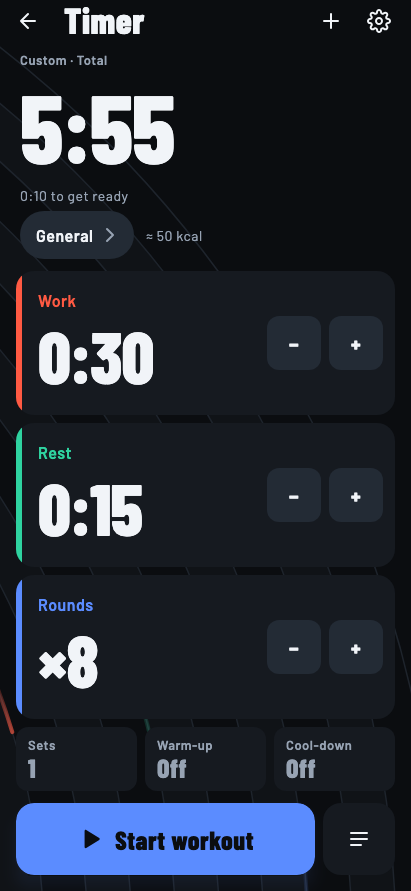
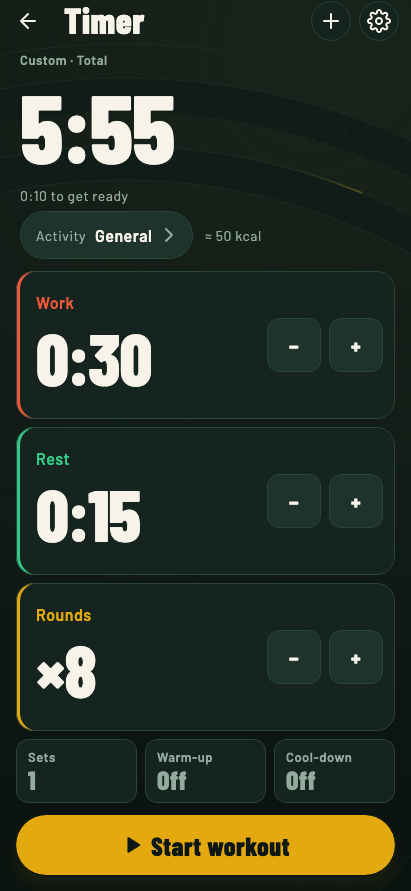
Docs: refresh Track & Chalk screenshots, 3D storefront renders, README and Pages site
- Re-capture all 16 dark-theme Track & Chalk screenshots in docs/screenshots/
  from the live Compose UI (phone 411x891 and tablet 1280x800).
- Re-render all 6 transparent Blender storefront device mockups in
  docs/assets/store/ (1290x2796 portrait & 1920x1080 landscape) from the
  updated screenshots.
- Update README.md, docs/index.md, docs/assets/extra.css, docs/developers/index.md,
  and docs/guide/ pages with the 3D storefront showcase, Track & Chalk visuals,
  chronograph rings, interval waveforms, muscle body maps, barbell plate loader,
  kettlebell rack, 12-week heatmap, Polar Verity Sense & H10 live heart-rate
  cards, and corrected module count (35) and Toolchain link (0.14).
- Verified with check_module_rules.py and mkdocs build --strict.

diff --git a/docs/assets/extra.css b/docs/assets/extra.css
@@ -18,6 +18,32 @@
   --md-typeset-a-color: #e5a910;
 }
 
+/* Two-up transparent 3D device showcase renders on the home page. */
+.showcase {
+  display: grid;
+  grid-template-columns: repeat(auto-fit, minmax(17rem, 1fr));
+  gap: 1.5rem;
+  align-items: end;
+  margin: 1.5rem 0 2rem;
+}
+
+.showcase figure {
+  margin: 0;
+  text-align: center;
+}
+
+.showcase img {
+  width: 100%;
+  height: auto;
+  filter: drop-shadow(0 14px 28px rgb(0 0 0 / 28%));
+}
+
+.showcase figcaption {
+  font-size: 0.75rem;
+  color: var(--md-default-fg-color--light);
+  margin-top: 0.5rem;
+}
+
 /* A row of phone screenshots that wraps on a narrow window. */
 .shots {
   display: flex;

diff --git a/README.md b/README.md
@@ -32,6 +32,11 @@ Built with **Compose Multiplatform** for **Android**, **iOS**, and **Desktop (JV
 
 ## 📱 App Showcase
 
+<p align="center">
+  <img src="docs/assets/store/dual_today_workout_landscape.png" width="48%" alt="Interval Today and live workout timer in chamfered device frames" />
+  <img src="docs/assets/store/companion_tablet_phone_landscape.png" width="48%" alt="Interval tablet Today view paired with phone Exercise library" />
+</p>
+
 ### 🧭 Today & Set up
 
 | Today | Set up | Log: this week | Log: the month |
@@ -63,7 +68,8 @@ Built with **Compose Multiplatform** for **Android**, **iOS**, and **Desktop (JV
 ## ✨ Features
 
 ### 🧭 Guided Setup, `Today` · `Train` · `Log`
-- **Welcome**: A fresh install opens, once, on what the app is and a page each for Today, Train and Log, every one skippable, on the way to Set up. Today then carries a **First week** card — build the week, do the first workout, follow a flow, log a day of your sport — ticked as each is done, until you hide it.
+- **Track & Chalk Design**: Deep pine dark mode, warm chalk light mode, varsity gold accents, GPU shader-rendered chronograph countdown rings, zone-banded heart-rate charts, interval waveforms on preset and flow cards, and a rendered 3D kettlebell app icon.
+- **Welcome**: A fresh install opens, once, on what the app is and an illustrated page each for Today, Train and Log, every one skippable, on the way to Set up. Today then carries a **First week** card — build the week, do the first workout, follow a flow, log a day of your sport — ticked as each is done, until you hide it.
 - **First-Run Week Setup (`Set up`)**: Where the welcome ends on a fresh install (and anytime from Today or Settings). Answer four questions — what else you train (BJJ, climbing, running, a custom sport, or just the bell), on which days, which kettlebells you own (and which you have two of), and your session length — to pick a program your bells and time are enough for, spread its days evenly around your sport with a rest day, save your equipment, and set your weekly goal. With a pair of bells and BJJ it builds a grappler's week: *20 minutes beside BJJ*, plus 15:15 MVO2 on a free day when the mat takes two days or fewer.
 - **`Today` Home Tab**: Opens directly to this week's progress against your goal, a coach's line on what kind of day it is, then **the day in order** on one card (today's planned workout, pre-class mobility flow, the class to log, or your followed program's next day with estimated duration): what is done ticked off, the step to do now under one Start button, strength on a class day behind **"If there is time"**, **"Done for today"** once nothing is left, a **rest day** when nothing was asked, an **easier day** offered after a very hard session or a heavy week on the grip, and **"Or pick by time"** behind "Something else" (the program's next day when it fits, then presets and mobility flows that fit 5, 10, 15, 20, or 30 minutes). Every pick opens a look at what it is before Start, with "Plan for later" beside it.
 - **Three-Pillar `Train` Tab**: One tab organized into three pillars — **Strength** (programs, muscle balance, exercises, equipment), **Conditioning** (interval presets, with the precision Timer a page over them), and **Mobility** (guided follow-along flows) — remembering the pillar you last trained on.
@@ -74,11 +80,11 @@ Built with **Compose Multiplatform** for **Android**, **iOS**, and **Desktop (JV
   - **Climbing & Falling Ladders**: Step work up or down each round (`+10s` or `-5s` a round), resetting each set.
   - **Multi-Block Sequences**: Chain multiple blocks back-to-back — each with its own work, rest, rounds, sets, and ladder, plus rest between blocks — built in the visual block editor or straight from the Timer.
   - **Time Caps**: As many rounds as you can in so many minutes, on the Timer or as any block of a sequence. Tap **Round done** as each round ends to see the rounds roll up, the pace of the round under way beside the average, and the best of the same workout; the summary and the Log keep every round's time.
-- **Warm-Up & Cool-Down**: Optional warm-up before rounds and cool-down stretch after, configured on the Timer, in presets, or in plain text.
-- **Built-in & Custom Presets**: built-in protocols (*Tabata*, *HIIT 30/30*, *Hangboard*, *Long efforts*, *Swings on the minute*, *Mat rounds*, Kenneth Jay's *15:15 MVO2* kettlebell snatch protocol, and a *20-minute cap*) alongside your own single-block presets and sequences, listed shortest first. A kettlebell preset can call every work after the first "Switch hands. Work" (15:15 MVO2 does), and asks on its summary about how many snatches a set, which Lift counts with its own sets.
-- **Audio & Haptic Cues**: High-contrast audible beeps, spoken cues via system text-to-speech (including set numbers, block transitions, and rest between sets/blocks), halfway warnings, and vibration pulses.
+- **Warm-Up & Cool-Down**: Optional warm-up before rounds and cool-down stretch after, configured on the Timer or in presets.
+- **Built-in & Custom Presets**: built-in protocols (*Tabata*, *HIIT 30/30*, *Hangboard*, *Long efforts*, *Swings on the minute*, *Mat rounds*, Kenneth Jay's *15:15 MVO2* kettlebell snatch protocol, and a *20-minute cap*) alongside your own single-block presets and sequences, each previewed with an interval waveform and grouped by where it fits. A kettlebell preset can call every work after the first "Switch hands. Work" (15:15 MVO2 does), and asks on its summary about how many snatches a set, which Lift counts with its own sets.
+- **Audio & Haptic Cues**: High-contrast audible beeps, spoken cues via system text-to-speech (including set numbers, block transitions, and rest between sets/blocks), halfway warnings, and vibration pulses, with `< Back`, `Pause`, `Skip >`, and `+10s` controls during workouts.
 - **Live Updates, Live Activities & Background Persistence**: On Android 16, running workouts and Lift's timers show as status-bar chips with real-time countdowns and per-round, per-set, or per-block progress on the lock screen, from a foreground service with Pause/End controls. On iOS they are Live Activities on the Lock Screen and in the Dynamic Island, with Pause/Resume and End, and local notifications scheduled ahead per phase change.
-- **Live Heart Rate (Android)**: With a Polar sensor paired, a workout shows the heart rate as a scale of the five zones under the ring, lighting the zone you are in and calling each change with a tone.
+- **Live Heart Rate (Android)**: Pair a **Polar Verity Sense** or **Polar H10** (choosing which when both are in reach) to see a live pulse badge beside the gear on every tab, a heart-rate card under the workout ring (tap to toggle between the five zone bars and a zone-banded live heart-rate trace), Lift session heart-rate cards and rest-band recovery guidance (*high*, *easing*, *ready*), post-workout 60-second recovery and heart load, and resting heart-rate (Karvonen) zone calibration.
 - **Shortcuts & Home-Screen Widget**: Long-press app shortcuts on **Android and iOS** to quickly "Start a workout" or "Start a Lift session" without interrupting an active workout, plus an **Android Glance home-screen widget** showing your weekly goal ring, streak, and one-tap start actions (with Android 15+ widget picker previews).
 
 ### 🏋 Strength & Kettlebell Training (`Lift`)
@@ -86,8 +92,8 @@ Built with **Compose Multiplatform** for **Android**, **iOS**, and **Desktop (JV
 - **Session Duration Estimates**: Displays estimated workout times (`"about 20 min"`, `"about 12–15 min"`) across Today, program cards, and day sheets — calculated from sets, reps, movement pace, EMOM minutes, and your configured rest between sets.
 - **Make It Yours**: Clone any built-in program into a customizable copy (`(yours)`) to modify rep ranges, timed holds, resistance bands, double bells, and schedules while keeping your current day and progression.
 - **Rep Progression & Balance Preview**: Programs build volume within a rep range, then denser, then a harder lift at the same bell, before stepping up to the next bell or band; "Very hard" or "All out" exertion ratings hold step-ups back until approved. Program sheets preview weekly muscle balance and highlight untargeted groups.
-- **130+ Exercise Library & Loaded Carries**: 134 built-in movements across kettlebells (including 18/22/26/30 kg competition bells, half snatch, push press, and timed farmer's, suitcase, rack, and bottoms-up carries), barbell, bodyweight, bands, and mat Pilates, every one shown by an animated figure doing a rep beside its form cues, with a line of each session's best (weight × reps) over the latest 24, a dashed rule at each move to another bell, lifetime totals, best pace, and custom exercise creation.
-- **Session Tracking & Muscle Balance**: Log sets, loads (single/double bells, barbell plates, bodyweight + load, bands), reps, EMOM timers, hold clocks, and automatic rest intervals, with a 4-week balance card across 7 muscle groups separating primary and assisting volume.
+- **130+ Exercise Library, Body Maps & Loaded Carries**: 134 built-in movements across kettlebells (including 18/22/26/30 kg competition bells, half snatch, push press, and timed farmer's, suitcase, rack, and bottoms-up carries), barbell, bodyweight, bands, and mat Pilates. Every movement is shown by a full-body animated figure with Step/Slow/Pause playback beside its form cues, a front-and-back muscle body map, a line of each session's best (weight × reps) over the latest 24 with a dashed rule at each move to another bell, lifetime totals, best pace, and custom exercises that can reuse any built-in figure.
+- **Session Tracking, Loaders & Muscle Balance**: Log sets, loads (visual kettlebell rack, barbell plate loader, bodyweight + load, bands), reps, EMOM timers, hold clocks, and automatic rest intervals, with a 4-week balance card and muscle body map across 7 muscle groups separating primary and assisting volume.
 - **Screen-Off Timers, Survivability & PRs**: Android counts rests, EMOMs, and timed holds on the lock screen with Live Update chips, wake locks, and beeps; iOS posts local notifications when locked. Active sessions, timers, and drafts survive background process death, with automatic PR detection (including heaviest and longest carry records).
 
 - **Coaching, Worked Out From What You Log**: Lift weighs your grip (each set by its reps and how hard the lift is on the hands, BJJ days included) and warns when the week runs well past the weeks before. After a very hard session, BJJ on a heavy grip week, or an overreached grip, a program day offers an easier version before its first set. Before a big jump in bell it tightens the rest first (density), and challenges sit under the program: 10,000 swings, the snatch test, the Armor Building Complex's best twenty minutes, and a get-up at your body weight. **Tests** (the snatch test, the complex, the press, push-ups, pull-ups and the plank) are attempts done on purpose, charted against the last at the same bell. Nothing extra is stored.
@@ -102,7 +108,7 @@ Built with **Compose Multiplatform** for **Android**, **iOS**, and **Desktop (JV
 - **Sport Days & Off-App Training**: Plan classes and days away from the app (BJJ, Climbing, Running, or any custom sport) weekly or on specific dates. One-tap **"Log it"** from Today or the Log (including past days, with Undo) counts toward your weekly goal, streak, and widget, while unlogged class days are never penalized as missed workouts.
 - **A Class on a Heart-Rate Sensor (Android 12+)**: Pair a Polar Verity Sense or H10 in Settings, tap **Record class** on a class day and leave the phone in the bag; **Sync class** afterwards logs the day and opens the class: its heart rate drawn with each round shaded, average and peak, and a row a round with how far the heart rate fell in the minute after.
 - **Log After the Fact & Move a Plan**: "Log a workout" on any day's sheet logs a preset, a flow, a sport day or the program's next day done as planned, with Undo. A missed plan has **Move** and today's has **Not today**, to a free day of the week ahead; the day it left reads "Moved to Saturday", not Missed.
-- **One Training Log (`Log`)**: Each kind of workout (strength, conditioning, mobility, sport days) done this week against its plan, what is coming up as a schedule, a month calendar of done, planned and missed days, all-time totals, weekly goals, and streaks.
+- **One Training Log (`Log`)**: Each kind of workout (strength, conditioning, mobility, sport days) done this week against its plan, what is coming up as a schedule, a month calendar of done, planned and missed days, a 12-week training heatmap, all-time totals, weekly goals, streaks, and dedicated zone-banded heart-rate cards on finished workouts, Lift sessions, and recorded classes.
 - **Post-Workout Reflection ("How was it?")**: Log perceived exertion (Easy, Steady, Hard, Very hard, All out) and a note upon completing any workout or Lift session; reflected in history, share sheets, exports, Apple Health, and Health Connect.
 - **Routines & Reminders**: Schedule recurring interval workouts, Lift program days, and sport days by weekday, or in words (`"tabata mon wed fri"`, `"8 × 20/10 then 5 × 1:00/0:30 mon"`), with reboot-resilient, self-extending daily reminders.
 - **Health Platform Sync (Apple Health & Health Connect)**: Dynamic calorie estimates based on activity, duration, and body weight. Syncs completed workouts, mobility flows, and Lift sessions (with intervals/sets, pauses, calories, and effort notes) to Apple Health (iOS) and Health Connect (Android), and reads smartwatch average/peak heart rate and 30-day scale weight on opt-in.
@@ -168,7 +174,8 @@ interval/
 │   └── lint-plugin/     # ktlint checks & formatting
 │
 ├── journeys/            # End-to-end on-device user flows (android CLI)
-└── tools/               # Icon generators, module boundary, iOS shard & version parity scripts
+├── scripts/             # Headless Blender storefront device mockup renderer (render_store_frames.py)
+└── tools/               # 2D/3D icon generators, module boundary, iOS shard, version parity & docs hook scripts
 ```
 
 ### Key Libraries & Tools

diff --git a/docs/guide/conditioning.md b/docs/guide/conditioning.md
@@ -34,24 +34,22 @@ total and a calorie estimate (with your weight set). Beyond that:
     left are called, and the end says *Time. 14 rounds.*
 
 **Warm-up and cool-down**
-:   Before the rounds and after, on the Timer, in a preset, or in words.
-
-**In words**
-:   Describe a workout in plain text (`8 × 20/10 then 5 × 1:00/0:30`) and the Timer takes it.
+:   Before the rounds and after, on the Timer or in a preset.
 
 ## Presets
 
 Built in: *Tabata*, *HIIT 30/30*, *Hangboard*, *Long efforts*, *Swings on the minute*, *Mat rounds*, Kenneth
-Jay's *15:15 MVO2* kettlebell snatch protocol, and a *20-minute cap*. Save your own, single blocks or sequences,
-from the Timer, or put any preset **on the Timer** to change it for today.
+Jay's *15:15 MVO2* kettlebell snatch protocol, and a *20-minute cap*, each previewed with an interval waveform and
+grouped by where it fits. Save your own, single blocks or sequences, from the Timer, or put any preset
+**on the Timer** to change it for today.
 
 A kettlebell preset can say *Switch hands. Work* at every work after the first (15:15 MVO2 does). Its summary
 asks about how many snatches a set and the bell, which Lift counts with its own sets.
 
 ## The workout
 
-The ring, the phase, the clock, the round and what comes next. In an interval's last seconds the clock pulses
-and the ring swells. Cues:
+The chronograph ring, the phase, the clock, the round and what comes next, with **Back** and **Skip** either side
+of **Pause** and **+10s** at the top. In an interval's last seconds the clock pulses and the ring swells. Cues:
 
 - **Tones**: the app's own, short and clean, for a countdown, work, rest and the finish.
 - **Voice**: set numbers, blocks, rest between sets and blocks, the halfway point.
@@ -59,8 +57,9 @@ and the ring swells. Cues:
 
 It keeps running with the screen off and the app away. On Android 16 it's a Live Update in the status bar with
 Pause and End; on iOS a Live Activity on the Lock Screen and in the Dynamic Island with Pause or Resume and End,
-plus a notification at each change ahead. With a heart-rate sensor in use, the five zones show as a scale under
-the ring (see [Health & sensors](health-and-sensors.md)).
+plus a notification at each change ahead. With a heart-rate sensor in use, a card under the ring shows your live
+beats, zone bars and — at a tap — your heart rate so far drawn over the zones (see
+[Health & sensors](health-and-sensors.md)).
 
 ## The summary
 

diff --git a/docs/developers/index.md b/docs/developers/index.md
@@ -1,7 +1,7 @@
 # Developers
 
 Interval is a Compose Multiplatform app for Android, iOS and desktop (JVM), built with the
-[Kotlin Toolchain](https://kotlin-toolchain.org/0.13/) (Amper). **There is no Gradle**: build configuration lives
+[Kotlin Toolchain](https://kotlin-toolchain.org/0.14/) (Amper). **There is no Gradle**: build configuration lives
 in `project.yaml` and each module's `module.yaml`.
 
 ## Prerequisites
@@ -50,7 +50,7 @@ Avoid a bare `./kotlin check` locally: it also links every module's iOS tests in
 
 ## The code
 
-32 modules in five folders: `core/` (what both sides build on), `interval/` (conditioning, mobility, Today and
+35 modules in five folders: `core/` (what both sides build on), `interval/` (conditioning, mobility, Today and
 the Log), `lift/` (Lift, the strength side), `apps/` (the app and its three hosts) and `tooling/`. Dependencies
 point toward `core/`, and `tools/check_module_rules.py` keeps them that way in CI.
 
@@ -59,6 +59,10 @@ point toward `core/`, and `tools/check_module_rules.py` keeps them that way in C
 -   **[Architecture](../architecture.md)**
 
     The layers, the modules, Navigation 3, Koin, storage, and the workout off screen.
+
+-   **[ADR-0001: KMP app choices](../adr/0001-kmp-app-choices.md)**
+
+    Why one Compose Multiplatform codebase, Navigation 3, Room KMP and the Kotlin Toolchain.
 
 -   **[Testing](../testing.md)**
 
@@ -76,6 +80,16 @@ point toward `core/`, and `tools/check_module_rules.py` keeps them that way in C
 
 The conventions in full are in
 [CLAUDE.md](https://github.com/smithjustinn84-netizen/interval/blob/main/CLAUDE.md).
+
+## Icons & storefront renders
+
+The 3D kettlebell app icon and framed storefront mockups are rendered headlessly in Blender:
+
+```sh
+uv run --with pillow tools/render_icon_3d.py     # iOS app icon & Android adaptive foreground
+/Applications/Blender.app/Contents/MacOS/Blender --background \
+  --python scripts/render_store_frames.py        # transparent portrait & landscape device renders
+```
 
 ## Version control
 

diff --git a/docs/guide/strength.md b/docs/guide/strength.md
@@ -22,7 +22,8 @@ your own.
 :   A free session, the library and your gear.
 
 **Lately**
-:   Your last session and a four-week balance across seven muscle groups, primary and assisting work apart.
+:   Your last session and a four-week balance across seven muscle groups — with a front-and-back body map separating
+    primary and assisting work.
 
 ## Programs
 
@@ -39,8 +40,10 @@ sets, each lift's pace and your rest between sets.
 
 ## A session
 
-Log each set's load (one bell or two, barbell plates, bodyweight plus a load, a band) and reps; the rest timer
-starts on its own. A block can be:
+Log each set's load (a visual kettlebell rack for one bell or two, a barbell plate loader, bodyweight plus a load,
+or a band) and reps; the rest timer starts on its own. With a Polar sensor paired on Android, a live heart-rate
+card sits under the session's numbers and rests read whether your heart is *high*, *easing* or *ready*. A block
+can be:
 
 **EMOM**
 :   Every minute on the minute, timed and beeped.
@@ -59,9 +62,10 @@ as you go (heaviest, most reps, longest carry), and the next lift's figure raise
 
 134 lifts across kettlebell (with 18, 22, 26 and 30 kg competition bells, half snatches, push presses, and
 farmer's, suitcase, rack and bottoms-up carries), barbell, bodyweight, band and mat Pilates. Every one is shown by
-an animated figure doing a rep, its cues lit in turn. Each exercise's page draws your best set each session
-(weight × reps) over your latest 24, a dashed rule at each move to another bell, with lifetime totals and best
-pace. Add your own exercises too.
+a full-body animated figure doing a rep (with **Step**, **Slow** and **Pause**, its cues lit in turn) and a
+front-and-back muscle body map. Each exercise's page draws your best set each session (weight × reps) over your
+latest 24, a dashed rule at each move to another bell, with lifetime totals and best pace. Add your own exercises
+too, and pick any built-in figure to show them by.
 
 ## Gear, challenges and tests
 

diff --git a/docs/index.md b/docs/index.md
@@ -74,6 +74,11 @@ on Android, iOS and desktop.** Everything stays on your device: no account, no a
 
 ## A look around
 
+<div class="showcase" markdown>
+<figure markdown>![Today and active workout timer in chamfered phone frames](assets/store/dual_today_workout_landscape.png)<figcaption>Today & the live chronograph ring</figcaption></figure>
+<figure markdown>![Tablet Today view paired with phone Exercise library](assets/store/companion_tablet_phone_landscape.png)<figcaption>Tablet & phone, offline together</figcaption></figure>
+</div>
+
 <div class="shots" markdown>
 <figure markdown>![Today](screenshots/01_today.png)<figcaption>Today</figcaption></figure>
 <figure markdown>![Set up](screenshots/02_setup.png)<figcaption>Set up</figcaption></figure>
@@ -84,6 +89,7 @@ on Android, iOS and desktop.** Everything stays on your device: no account, no a
 <figure markdown>![A workout running](screenshots/09_workout.png)<figcaption>A workout running</figcaption></figure>
 <figure markdown>![An EMOM in a Lift session](screenshots/11_lift_emom.png)<figcaption>An EMOM in Lift</figcaption></figure>
 <figure markdown>![The Log](screenshots/12_log_week.png)<figcaption>The Log</figcaption></figure>
+<figure markdown>![An exercise shown by a figure](screenshots/15_exercise.png)<figcaption>Exercises & body map</figcaption></figure>
 </div>
 
 ## Where it runs

diff --git a/docs/guide/health-and-sensors.md b/docs/guide/health-and-sensors.md
@@ -23,10 +23,12 @@ On iOS, refusing on Apple Health's sheet sends you to the Health app to change i
 
 ## Live heart rate (Android)
 
-With a Polar sensor paired, a workout shows your heart rate on a card under the ring: a dot beating in your
+With a Polar sensor paired, a live pulse badge sits beside the gear on every tab (tap it for the sensor's sheet,
+battery and Forget). During a workout your heart rate shows on a card under the ring: a dot beating in your
 zone's colour, the beats a minute, the zone by number and name, and the five zones as bars in their colours, the
-one you are in lit. A Lift session shows it as a badge in its title bar, and its summary draws the session's heart rate and the
-time in each zone. The zones are worked out from the max heart rate set in Settings, the same on both.
+one you are in lit. A Lift session shows it as a badge in its title bar and on its EMOM and density clocks, and
+its summary draws the session's heart rate and the time in each zone. The zones are worked out from the max heart
+rate set in Settings, the same on both.
 
 Tap the card and the bars turn into your heart rate so far, drawn over the zones with each work interval shaded;
 tap again for the bars. In a Lift session the heart has a card of its own under the session's numbers, with the

diff --git a/docs/guide/log-and-plan.md b/docs/guide/log-and-plan.md
@@ -12,9 +12,10 @@ The **Log** tab (History, in the code) is everything done and everything planned
 - **This week**: each kind of training (strength, conditioning, mobility, sport days) done against its plan,
   and what is coming up as a schedule.
 - **The month**: a calendar of done, planned and missed days. Tap a day for its sheet.
-- **Totals, weekly goals and streaks**, all time.
-- **Each workout and session**: its page, with its rounds or sets, how hard it was, your note, and the heart
-  rate from a watch if Health Connect or Apple Health has one.
+- **Totals, 12-week heatmap, weekly goals and streaks**, all time.
+- **Each workout, session and recorded class**: its page, with its rounds or sets, how hard it was, your note,
+  and a dedicated heart-rate card (average, peak, zone-banded chart, time in each zone, 60-second recovery and
+  heart load when recorded on a sensor or read from Health Connect / Apple Health).
 
 ## Sport days
 

diff --git a/docs/guide/getting-started.md b/docs/guide/getting-started.md
@@ -2,9 +2,9 @@
 
 ## The welcome
 
-A fresh install opens once on four short pages: what the app is, then a page each for **Today**, **Train** and
-**Log**, each drawn from the tab's own parts. Skip, or the last page, takes you to Set up. If you had the app
-before, or there is anything in it already, it opens straight on Today.
+A fresh install opens once on four short pages: what the app is, then an illustrated page each for **Today**,
+**Train** and **Log**, each drawn on the pine panel from the tab's own parts. Skip, or the last page, takes you to
+Set up. If you had the app before, or there is anything in it already, it opens straight on Today.
 
 ## Set up
 
